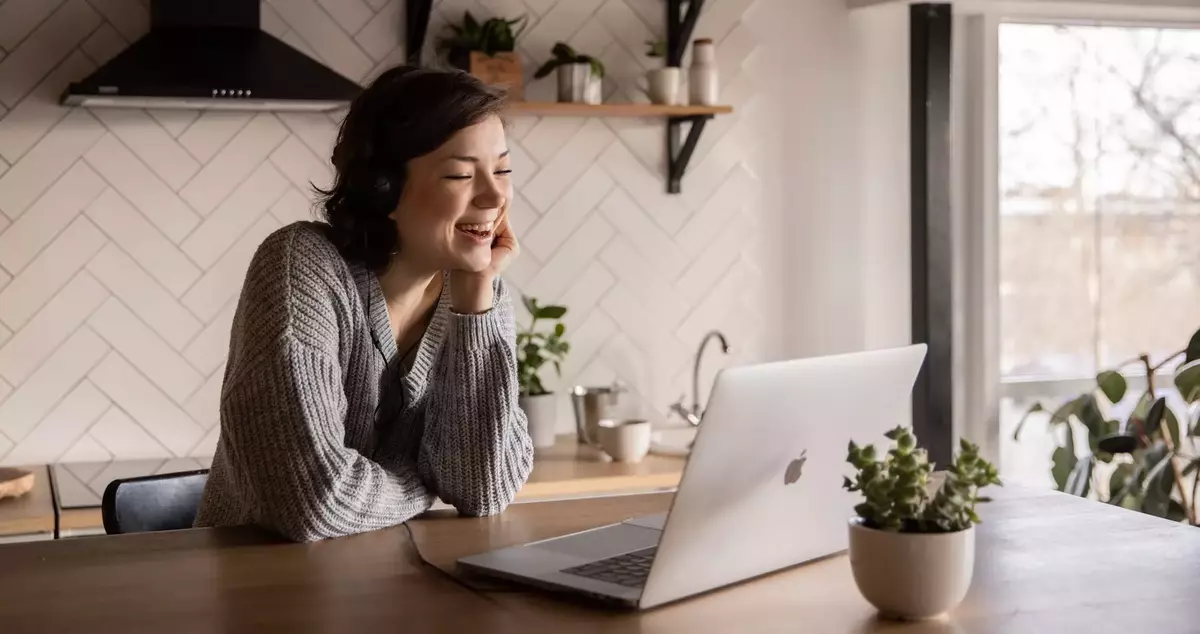
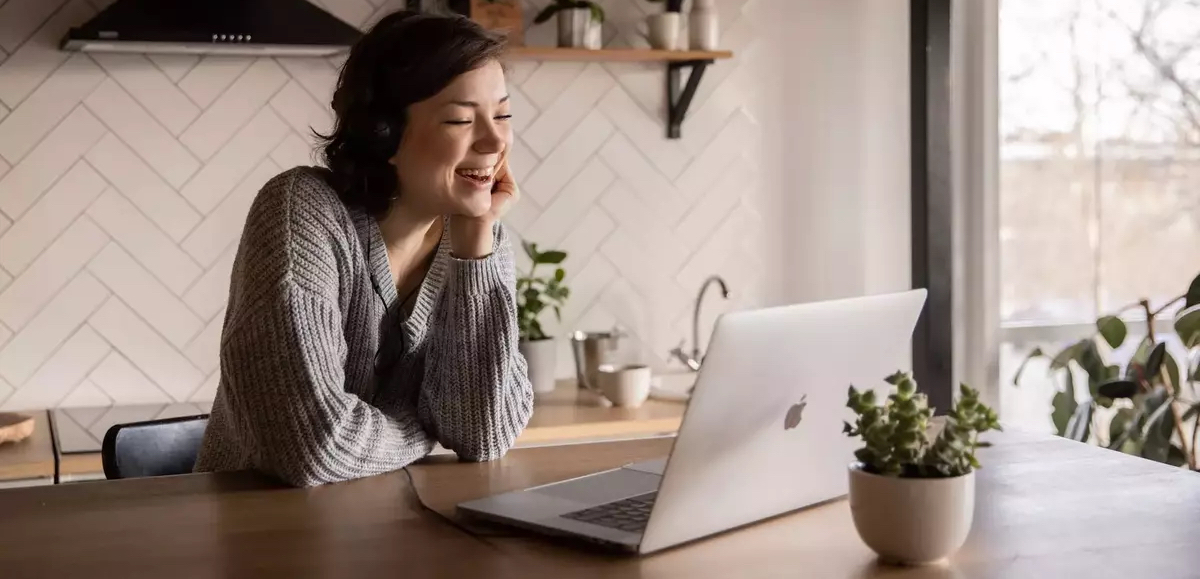
more img optimization

diff --git a/app/static/css/custom.scss b/app/static/css/custom.scss
@@ -217,6 +217,7 @@ button:hover, .btn:hover, input[type="submit"]:hover, .menu-link:hover {
 // Home page
 
 // X-large backgrounds //
+
 #home {
   background: linear-gradient(rgba(0, 0, 0, 0.5), rgba(0, 0, 0, 0.5)), url(../img/student-xl.webp) center top no-repeat;
   background-attachment: fixed;
@@ -241,18 +242,22 @@ button:hover, .btn:hover, input[type="submit"]:hover, .menu-link:hover {
 // Mobile backgrounds //
 @media screen and (max-width: 575px) {
   #home {
+    background-image: linear-gradient(rgba(0, 0, 0, 0.5), rgba(0, 0, 0, 0.5)), url(../img/student.jpg);
+    background-position: center top;
+    background-repeat: no-repeat;
     background-attachment: scroll;
-    background: linear-gradient(rgba(0, 0, 0, 0.5), rgba(0, 0, 0, 0.5)), url(../img/student.jpg) center top no-repeat;
   }
 
   #free-trial {
+    background-image: linear-gradient(rgba(0, 0, 0, 0.6), rgba(0, 0, 0, 0.6)), url(../img/student2.jpg);
+    background-position: center top;
+    background-repeat: no-repeat;
     background-attachment: scroll;
-    background: linear-gradient(rgba(0, 0, 0, 0.6), rgba(0, 0, 0, 0.6)), url(../img/student2.jpg) center top no-repeat;
   }
 }
 
 #home, #free-trial {
- background-size: cover;
+  background-size: cover;
 }
 
 #home-logo {

diff --git a/app/static/css/custom.css b/app/static/css/custom.css
@@ -837,13 +837,17 @@ button:hover, .btn:hover, input[type=submit]:hover, .menu-link:hover {
 }
 @media screen and (max-width: 575px) {
   #home {
+    background-image: linear-gradient(rgba(0, 0, 0, 0.5), rgba(0, 0, 0, 0.5)), url(../img/student.jpg);
+    background-position: center top;
+    background-repeat: no-repeat;
     background-attachment: scroll;
-    background: linear-gradient(rgba(0, 0, 0, 0.5), rgba(0, 0, 0, 0.5)), url(../img/student.jpg) center top no-repeat;
   }
 
   #free-trial {
+    background-image: linear-gradient(rgba(0, 0, 0, 0.6), rgba(0, 0, 0, 0.6)), url(../img/student2.jpg);
+    background-position: center top;
+    background-repeat: no-repeat;
     background-attachment: scroll;
-    background: linear-gradient(rgba(0, 0, 0, 0.6), rgba(0, 0, 0, 0.6)), url(../img/student2.jpg) center top no-repeat;
   }
 }
 #home, #free-trial {
